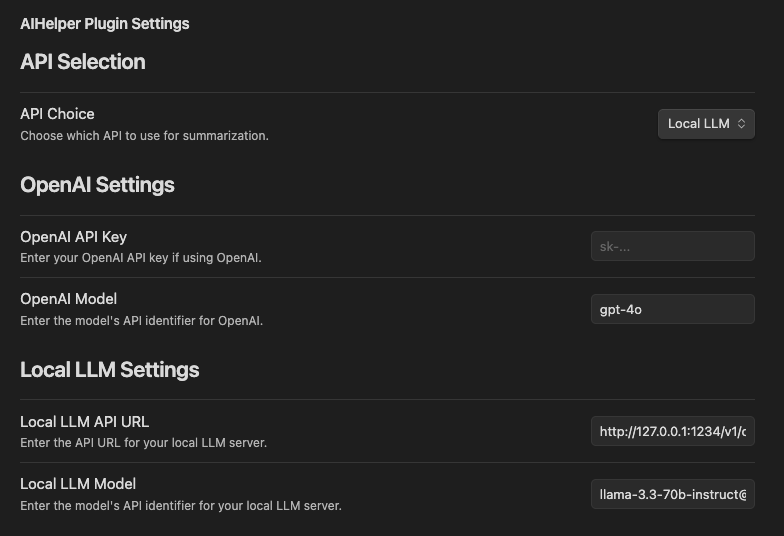
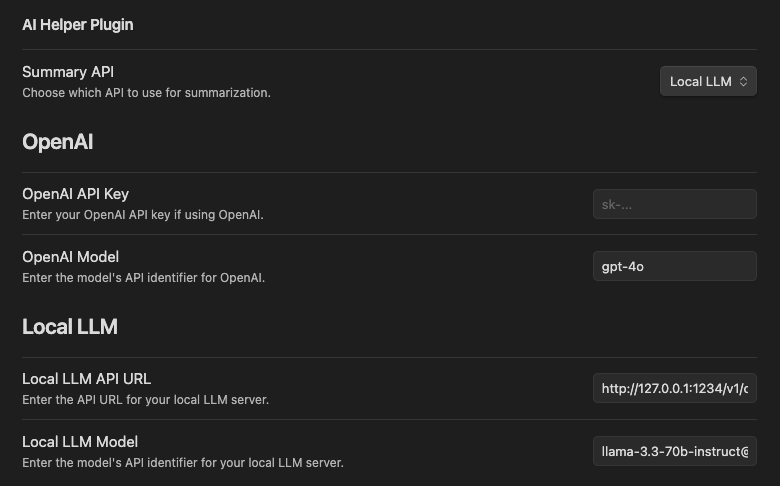
Ensuring alignmnet to best practices

diff --git a/src/settings.ts b/src/settings.ts
@@ -45,13 +45,10 @@ export class AIHelperSettingTab extends PluginSettingTab {
     const { containerEl } = this;
     containerEl.empty();
 
-    containerEl.createEl('h2', { text: 'AIHelper Plugin Settings' });
-
-    // API Selection Section
-    containerEl.createEl('h3', { text: 'API Selection' });
+    containerEl.createEl('h2', { text: 'AI Helper Plugin' });
 
     new Setting(containerEl)
-      .setName('API Choice')
+      .setName('Summary API')
       .setDesc('Choose which API to use for summarization.')
       .addDropdown(dropdown =>
         dropdown.addOptions({ local: 'Local LLM', openai: 'OpenAI' })
@@ -64,7 +61,7 @@ export class AIHelperSettingTab extends PluginSettingTab {
 
 
     // OpenAI Settings Section
-    containerEl.createEl('h3', { text: 'OpenAI Settings' });
+    containerEl.createEl('h3', { text: 'OpenAI' });
     new Setting(containerEl)
       .setName('OpenAI API Key')
       .setDesc('Enter your OpenAI API key if using OpenAI.')
@@ -90,7 +87,7 @@ export class AIHelperSettingTab extends PluginSettingTab {
       );
 
     // Local LLM Settings Section
-    containerEl.createEl('h3', { text: 'Local LLM Settings' });
+    containerEl.createEl('h3', { text: 'Local LLM' });
     new Setting(containerEl)
       .setName('Local LLM API URL')
       .setDesc('Enter the API URL for your local LLM server.')

diff --git a/README.md b/README.md
@@ -5,7 +5,7 @@ This is a simple AI Helper to Summarize selected text.  It supports both LocalLL
 ## Installation Instructions
 
 1. Install the Plugin in your `.obsidian/plugins` folder
-2. Naviagate to `Settings` -> `Community plugins` -> `AI Helper`
+2. Navigate to `Settings` -> `Community plugins` -> `AI Helper`
 3. Make sure the Plugin is Enabled and click the settings icon ⚙
 4. Select to use either your Local LLM or the Open AI API and fill in the corresponding settings
 
@@ -18,8 +18,8 @@ This is a simple AI Helper to Summarize selected text.  It supports both LocalLL
 ![right click menu](img/rightclick.png)
 
 2. Make any edits to the text and select one of:
-  * Insert Inline: Insert the summary inline below the selected text.
-  * Insert Summary: Add a summary to a section at the top of the document
-  * Copy: Copy the summart to your clipboard
+  * **Insert Inline**: Insert the summary inline below the selected text.
+  * **Insert Summary**: Add a summary to a section at the top of the document
+  * **Copy**: Copy the summary to your clipboard
 
 ![modal](img/modal.png)
